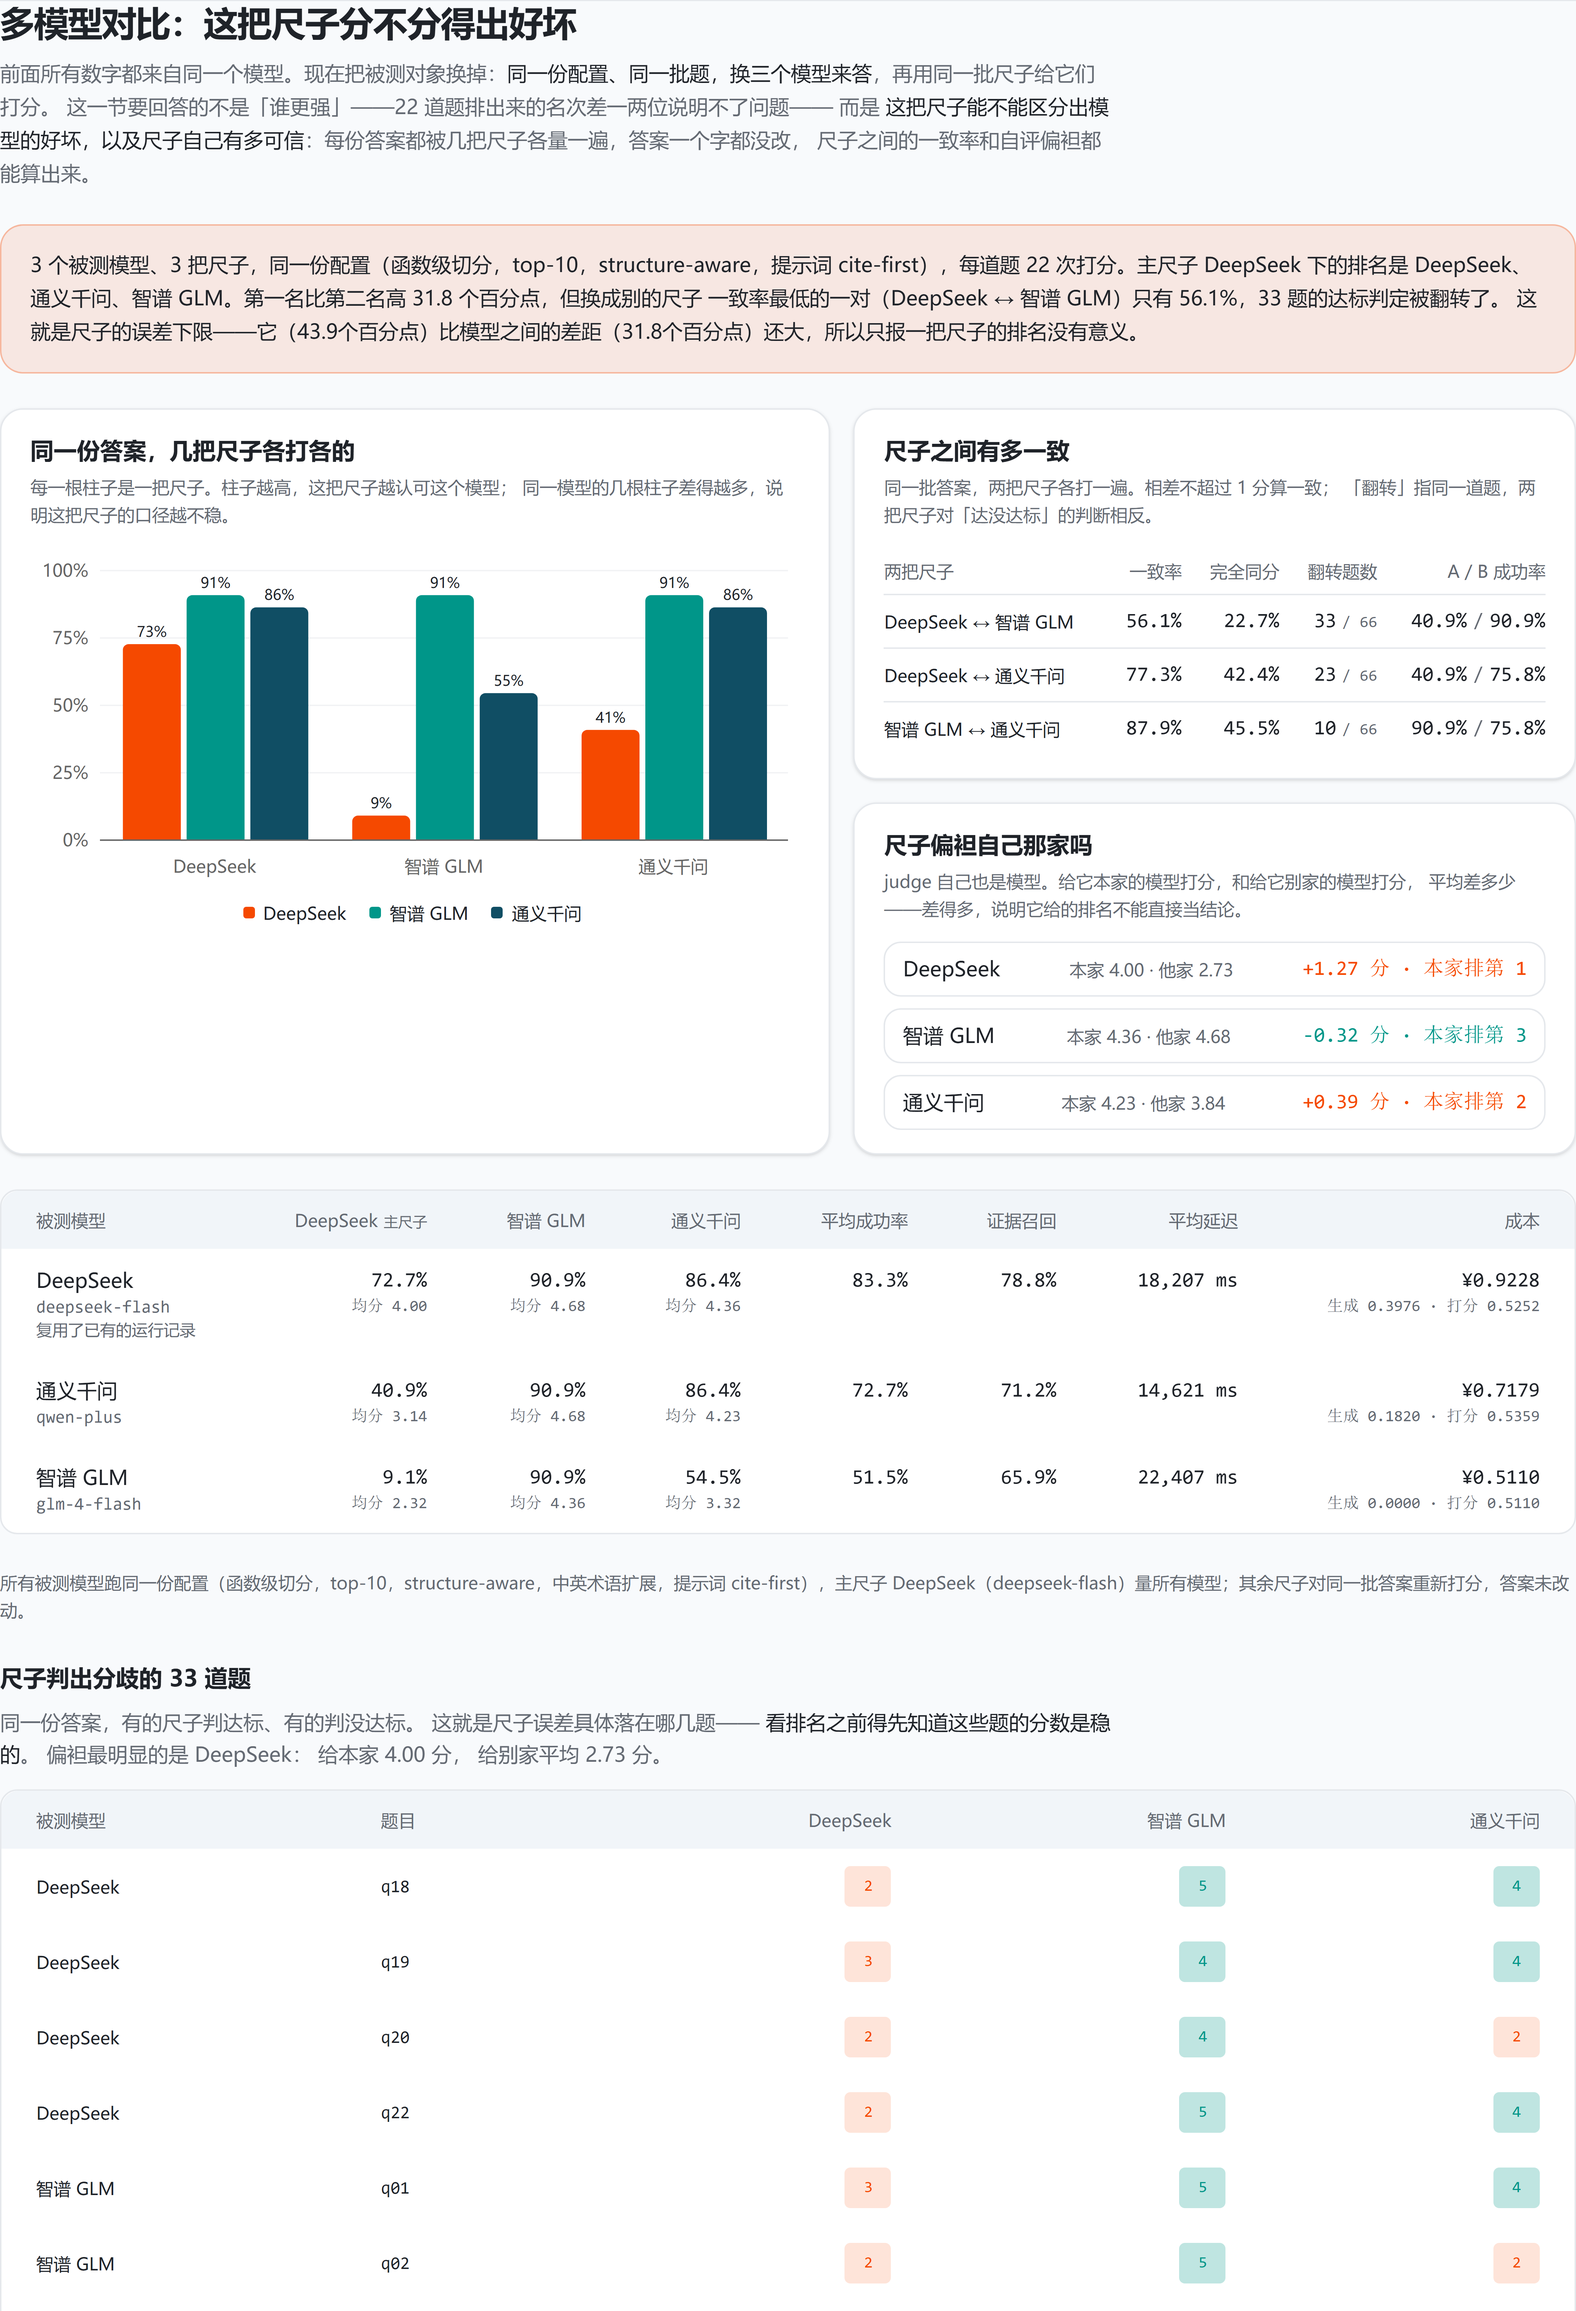
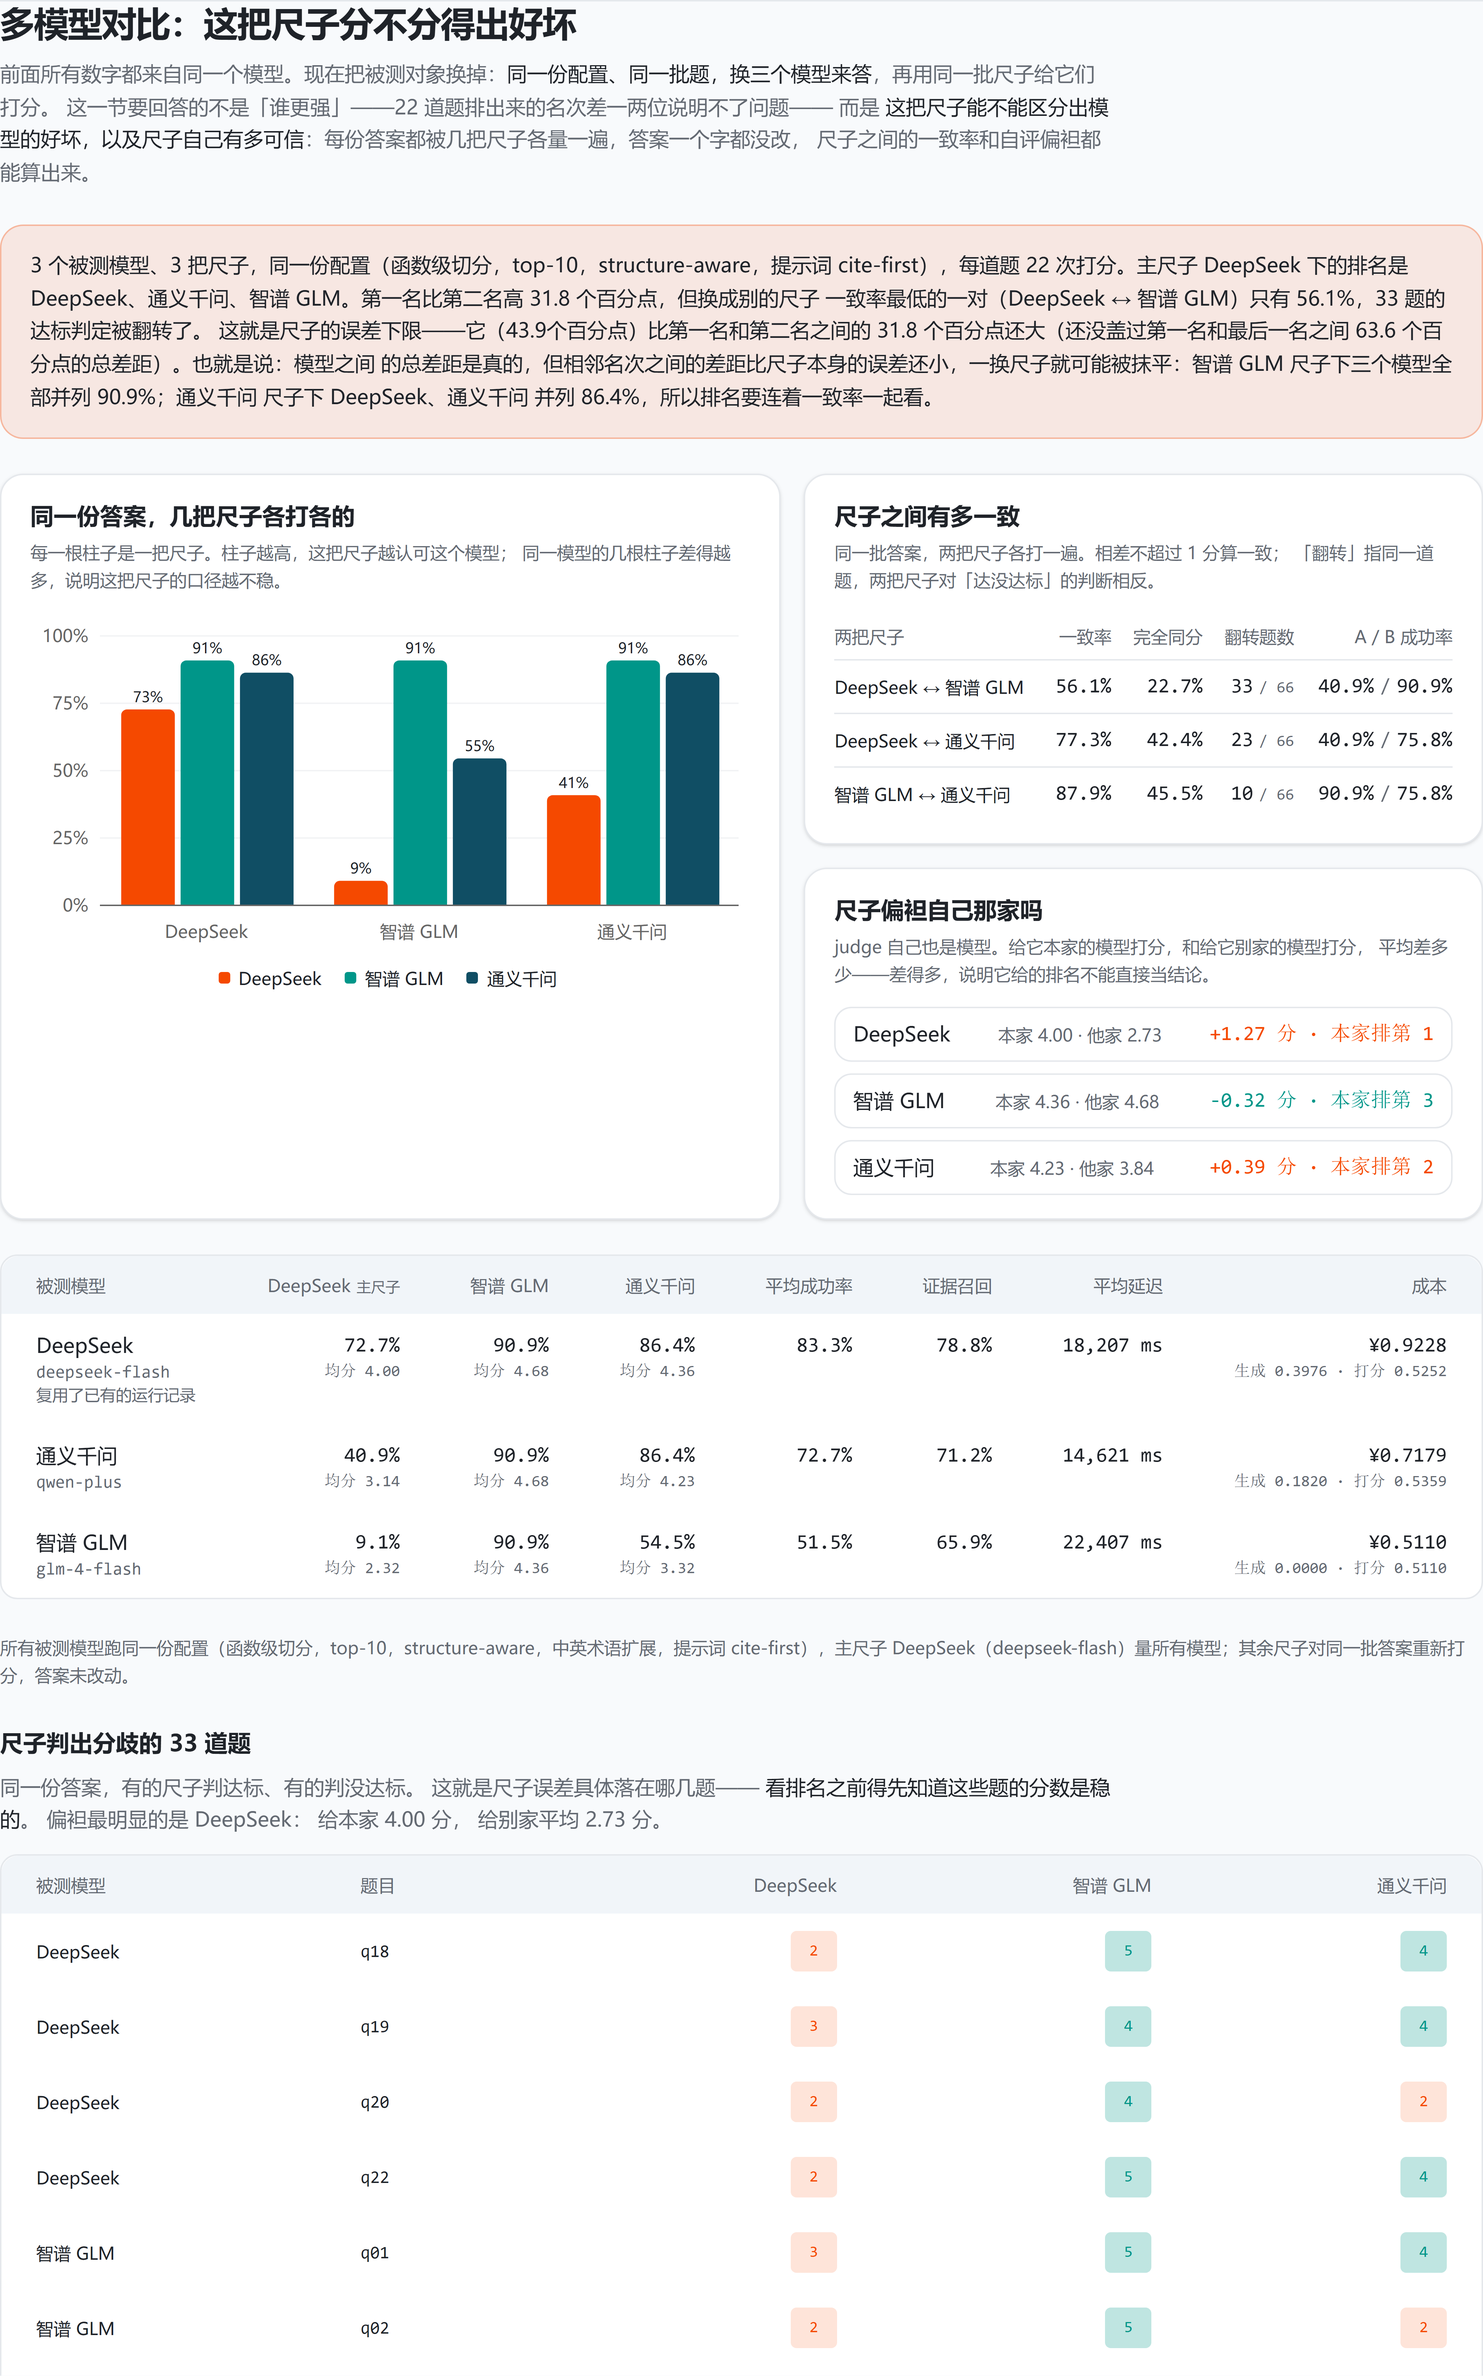
fix(site): 把「名次会重排」改成数据支持的说法
跨尺子比较后发现并没有出现名次反转，真正发生的是相邻名次的差距被抹平：
通义千问尺子下前两名并列 86.4%，智谱 GLM 尺子下三个模型全部并列 90.9%。
把站点的横幅和帖子改成这个说法，并补上模型总差距 63.6 个百分点的对照，
避免拿相邻差距和尺子分歧做不等价的比较。

diff --git a/site/components/eval/model-comparison-section.tsx b/site/components/eval/model-comparison-section.tsx
@@ -76,6 +76,34 @@ export function ModelComparisonSection() {
       : 0;
   const rulerGap = worstPair ? (1 - worstPair.agreement) * 100 : 0;
 
+  // 每把尺子下的分差：差距被尺子压扁，说明这把尺子不区分模型
+  const spreadUnder = (index: number) => {
+    const values = rows.map((row) => cellOf(row, index)?.successRate ?? 0);
+    return (Math.max(...values) - Math.min(...values)) * 100;
+  };
+  const primarySpread = spreadUnder(primaryIndex);
+  const flattened = judges
+    .map((judge, index) => {
+      const top = Math.max(
+        ...rows.map((row) => cellOf(row, index)?.successRate ?? 0),
+      );
+      const tied = rows.filter(
+        (row) => (cellOf(row, index)?.successRate ?? 0) === top,
+      );
+      return { judge, index, top, tied };
+    })
+    .filter(
+      (item) =>
+        item.index !== primaryIndex && spreadUnder(item.index) < primarySpread,
+    )
+    .map((item) =>
+      item.tied.length === rows.length
+        ? `${item.judge.label} 尺子下三个模型全部并列 ${formatPercent(item.top)}`
+        : `${item.judge.label} 尺子下 ${item.tied
+            .map((row) => row.agentProfileLabel)
+            .join("、")} 并列 ${formatPercent(item.top)}`,
+    );
+
   // 自评偏袒最明显的一把尺子
   const mostBiased = [...selfPreference].sort(
     (a, b) => Math.abs(b.gap) - Math.abs(a.gap),
@@ -157,19 +185,25 @@ export function ModelComparisonSection() {
                 <>
                   ——它（
                   {rulerGap.toFixed(1)}
-                  个百分点）比模型之间的差距（
-                  {modelGap.toFixed(1)}
-                  个百分点）还大，所以只报一把尺子的排名没有意义。
+                  个百分点）比第一名和第二名之间的{" "}
+                  {modelGap.toFixed(1)} 个百分点还大（还没盖过第一名和最后一名之间{" "}
+                  {primarySpread.toFixed(1)} 个百分点的总差距）。也就是说：模型之间
+                  的总差距是真的，但相邻名次之间的差距比尺子本身的误差还小
                 </>
               ) : (
                 <>
                   ——它（
                   {rulerGap.toFixed(1)}
-                  个百分点）还没盖过模型之间的差距（
-                  {modelGap.toFixed(1)}
-                  个百分点），但换一把尺子仍然可能改写名次，所以排名要连着一致率一起看。
+                  个百分点）还没超过第一名和第二名之间的{" "}
+                  {modelGap.toFixed(1)} 个百分点，但换一把尺子仍然可能改写名次
                 </>
               )}
+              {flattened.length > 0 ? (
+                <>
+                  ，一换尺子就可能被抹平：{flattened.join("；")}
+                </>
+              ) : null}
+              ，所以排名要连着一致率一起看。
             </>
           ) : null}
         </p>

diff --git a/site/components/eval/export-buttons.tsx b/site/components/eval/export-buttons.tsx
@@ -227,7 +227,7 @@ export function buildModelComparisonCsv(): string {
     .join("\n");
 }
 
-/** 尺子之间的一致率：换一把尺子，排名会不会翻。 */
+/** 尺子之间的一致率：换一把尺子，名次之间的差距会不会被抹平。 */
 export function buildJudgeAgreementCsv(): string {
   if (!modelComparison) return "";
   const header = [

diff --git a/docs/tianchi-post.md b/docs/tianchi-post.md
@@ -149,7 +149,7 @@
 | DeepSeek ↔ 通义千问 | 77.3% | 42.4% | 23 / 66 | 40.9% / 75.8% |
 | 智谱 GLM ↔ 通义千问 | 87.9% | 45.5% | 10 / 66 | 90.9% / 75.8% |
 
-**这把尺子的误差，比模型之间的差距还大。** 最不一致的一对（DeepSeek ↔ 智谱 GLM）只有 56.1% 一致，66 道评分里有 33 道「达没达标」的判断被翻转——分歧幅度 43.9 个百分点，而模型之间的差距只有 31.8 个百分点。换句话说：**换一把尺子，名次就可能重排。** 这就是前面说「生成层分数只能横向比较、不能当绝对质量分」的量化证据，不是免责声明。
+**这把尺子的误差，比第一名和第二名之间的差距还大。** 最不一致的一对（DeepSeek ↔ 智谱 GLM）只有 56.1% 一致，66 道评分里有 33 道「达没达标」的判断被翻转——分歧幅度 43.9 个百分点，而主尺子下第一名和第二名只差 31.8 个百分点（第一名和最后一名之间的总差距是 63.6 个百分点，这个才是真的）。换句话说：**模型之间的总差距站得住，但相邻名次之间的差距比尺子本身的误差还小，一换尺子就可能被抹平**——通义千问尺子下 DeepSeek 和通义千问并列 86.4%，智谱 GLM 尺子下三个模型全部并列 90.9%。这就是前面说「生成层分数只能横向比较、不能当绝对质量分」的量化证据，不是免责声明。
 
 另外两条更具体的发现：
 
@@ -160,7 +160,7 @@
 
 ### 站点上还提供
 
-- **多模型对比**：三个被测模型 × 三把尺子的完整矩阵——同一份配置换模型跑，再用每把尺子给同一批答案重新打分，能看到主尺子排出来的名次换一把尺子会不会翻车
+- **多模型对比**：三个被测模型 × 三把尺子的完整矩阵——同一份配置换模型跑，再用每把尺子给同一批答案重新打分，能看到主尺子排出来的名次换一把尺子会不会被抹平
 - **尺子一致率**：两两尺子的一致率、完全同分率、「达没达标」被翻转的题数，以及各自信用的成功率——**尺子的误差下限就摆在这里**
 - **自评偏袒检测**：每把尺子给本家模型打的分比给他家高多少，本家排第几——**这是评测台自己给自己做的体检**
 - **尺子分歧逐题表**：33 道被不同尺子判出不同结论的题，逐题列出三把尺子的分数
@@ -279,7 +279,7 @@ cd ../site && npm run dev
 
 **⑦ 把「尺子准不准」也变成数据**：这一段是这次加得最狠的一块，也是我推翻自己结论的地方——
 > - 之前的自检只回答了「尺子对**人工写的答案**准不准」，答 100% 一致率就算过关。但换成给 Agent 的答案打分，尺子准不准完全是另一回事——**人写的答案有标准答案可对照，Agent 的答案没有**。
-> - 所以我把被测对象换成三个模型（DeepSeek / 通义千问 / 智谱 GLM），配置一个字不改，再拿三把尺子给**同一批答案**各打一遍（答案不动，只有打分的人换人）。结论很硬：**最不一致的一对尺子只有 56.1% 一致，66 道评分里 33 道「达没达标」的判断被翻转**——尺子之间的分歧（43.9 个百分点）比模型之间的差距（31.8 个百分点）还大。
+> - 所以我把被测对象换成三个模型（DeepSeek / 通义千问 / 智谱 GLM），配置一个字不改，再拿三把尺子给**同一批答案**各打一遍（答案不动，只有打分的人换人）。结论很硬：**最不一致的一对尺子只有 56.1% 一致，66 道评分里 33 道「达没达标」的判断被翻转**——尺子之间的分歧（43.9 个百分点）比第一名和第二名之间的差距（31.8 个百分点）还大，一换尺子这个差距就可能被抹平（通义千问尺子下前两名并列 86.4%，智谱 GLM 尺子下三个模型全部并列 90.9%）。
 > - 更扎心的一条：**主尺子 DeepSeek 给本家模型的平均分比他家高 1.27 分**，是三把里最偏袒自己家的。主尺子本身就有偏，这个结论我没法绕过去，只能写出来。附带还发现智谱 GLM 那把尺子给三个模型打出的成功率**全都是 90.9%**——宽松到没有区分度，交叉验证前得先看尺子有没有区分度。
 > - 这一段的数字没有一个是我手打的：harness 里新增了 `compare` 命令和 `rejudge` 模块（对存下来的答案重新打分），一致率、自评偏袒、逐题分歧表全是脚本算出来再渲染的。
 
